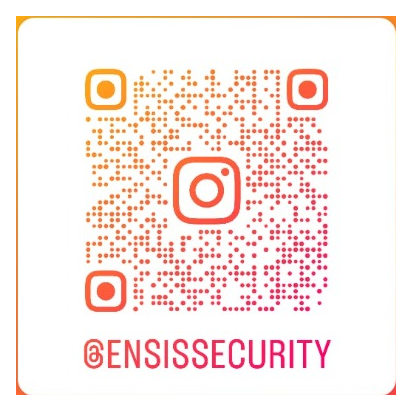
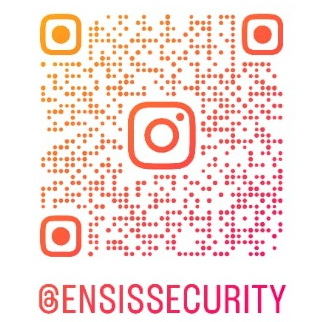
Tightly crop Instagram QR to fill entire square without white margins

diff --git a/assets/ensis-brochure.js b/assets/ensis-brochure.js
@@ -271,7 +271,7 @@
     card.setAttribute('aria-label', 'Seguir a ENSIS Security en Instagram @ensissecurity');
     card.innerHTML = `
       <div class="instagram-qr-thumb">
-        <img src="./images/instagram-qr.png" alt="Código QR oficial de Instagram @ENSISSECURITY" loading="lazy" />
+        <img src="./images/instagram-qr.png?v=2" alt="Código QR oficial de Instagram @ENSISSECURITY" loading="lazy" />
       </div>
       <div class="instagram-qr-body">
         <span class="instagram-qr-tag">Red Social Oficial</span>

diff --git a/assets/ensis-enhancements.css b/assets/ensis-enhancements.css
@@ -1388,17 +1388,17 @@ dialog.brochure-lightbox::backdrop {
   width: 180px;
   height: 180px;
   flex-shrink: 0;
-  border-radius: 0.85rem;
+  border-radius: 0.75rem;
   overflow: hidden;
   background: #ffffff;
-  padding: 6px;
+  padding: 0;
   box-shadow: 0 8px 24px rgba(0, 0, 0, 0.4);
 }
 
 .instagram-qr-thumb img {
   width: 100%;
   height: 100%;
-  object-fit: contain;
+  object-fit: cover;
   display: block;
 }
 
